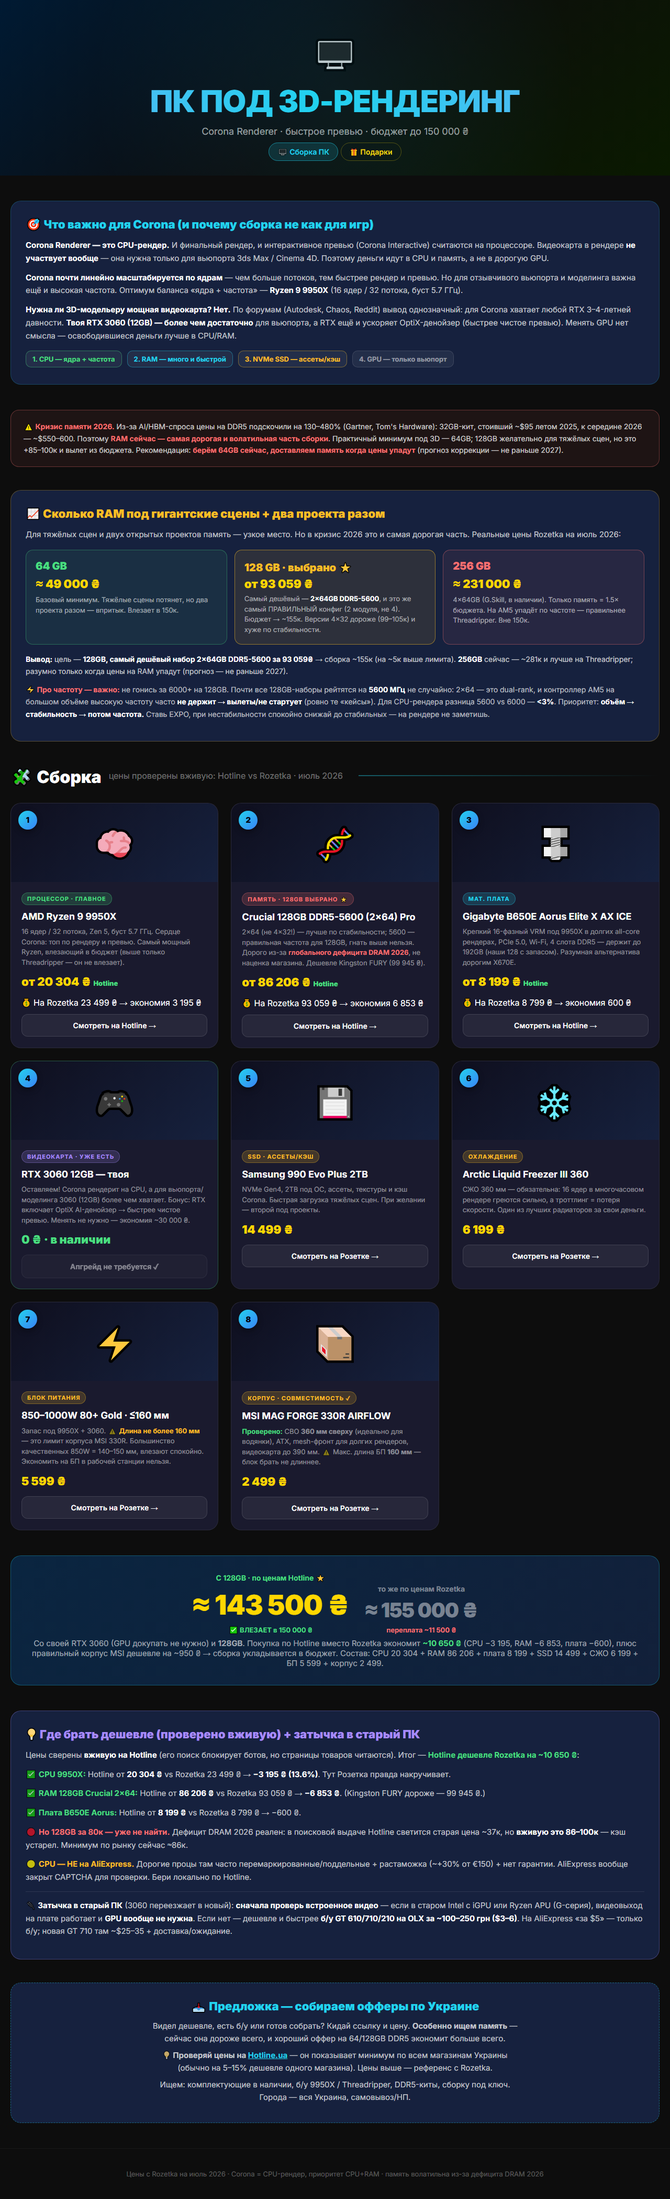
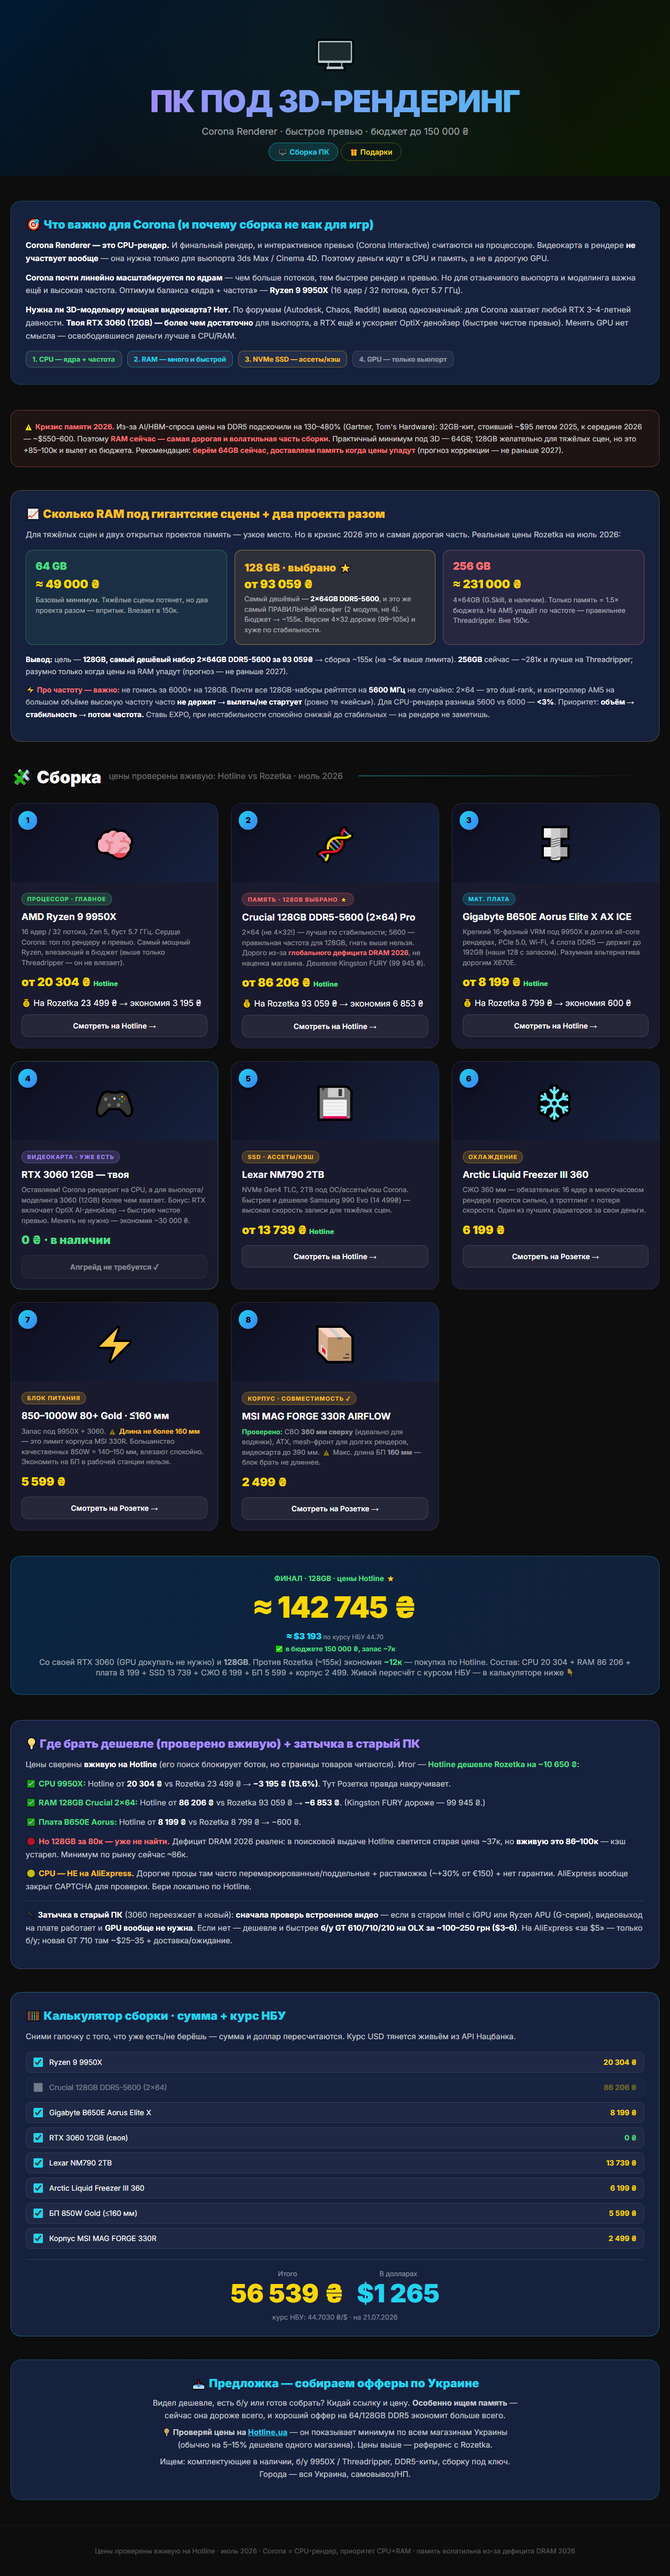
Финальная цена 142 745₴ ($3193) + калькулятор с курсом НБУ
- SSD → Lexar NM790 2TB (Hotline от 13 739₴) — быстрее и дешевле Samsung 990 Evo
- Финал сборки: ≈142 745₴ = ~$3 193 по курсу НБУ 44.703 (в бюджете 150к, запас ~7к)
- Встроен интерактивный калькулятор внизу: чекбоксы «куплено/не беру» → живой пересчёт суммы + USD
- Курс USD тянется живьём из API Нацбанка (bank.gov.ua), фолбэк 44.703
- Проверено: калькулятор считает и переключается; NBU-фетч работает (CORS ok)

diff --git a/index.html b/index.html
@@ -187,15 +187,15 @@
       </div>
     </div>
 
-    <div class="card" onclick="window.open('https://hard.rozetka.com.ua/ua/samsung-mz-v9s2t0bw/p487901779/','_blank')">
+    <div class="card" onclick="window.open('https://hotline.ua/ua/computer-diski-ssd/lexar-nm790-2-tb-lnm790x002t-rnnng/','_blank')">
       <div class="ticket-number">5</div>
       <div class="part-icon">💾</div>
       <div class="card-body">
         <span class="badge b-etc">SSD · ассеты/кэш</span>
-        <div class="card-name">Samsung 990 Evo Plus 2TB</div>
-        <div class="card-desc">NVMe Gen4, 2TB под ОС, ассеты, текстуры и кэш Corona. Быстрая загрузка тяжёлых сцен. При желании — второй под проекты.</div>
-        <div class="card-price">14 499 ₴</div>
-        <a class="card-link" href="https://hard.rozetka.com.ua/ua/samsung-mz-v9s2t0bw/p487901779/" target="_blank" onclick="event.stopPropagation()">Смотреть на Розетке →</a>
+        <div class="card-name">Lexar NM790 2TB</div>
+        <div class="card-desc">NVMe Gen4 TLC, 2TB под ОС/ассеты/кэш Corona. Быстрее и дешевле Samsung 990 Evo (14 499₴) — высокая скорость записи для тяжёлых сцен.</div>
+        <div class="card-price">от 13 739 ₴ <span style="font-size:13px;color:#4ade80">Hotline</span></div>
+        <a class="card-link" href="https://hotline.ua/ua/computer-diski-ssd/lexar-nm790-2-tb-lnm790x002t-rnnng/" target="_blank" onclick="event.stopPropagation()">Смотреть на Hotline →</a>
       </div>
     </div>
 
@@ -241,17 +241,13 @@
   <div class="total">
     <div style="display:flex; gap:30px; justify-content:center; flex-wrap:wrap; align-items:flex-end">
       <div>
-        <div style="font-size:14px; color:#4ade80; font-weight:700; margin-bottom:4px">С 128GB · по ценам Hotline ⭐</div>
-        <div class="sum" style="font-size:clamp(32px,7vw,52px)">≈ 143 500 ₴</div>
-        <div style="font-size:13px;color:#4ade80;font-weight:700;margin-top:4px">✅ ВЛЕЗАЕТ в 150 000 ₴</div>
-      </div>
-      <div>
-        <div style="font-size:14px; color:rgba(255,255,255,0.45); font-weight:700; margin-bottom:4px">то же по ценам Rozetka</div>
-        <div class="sum" style="font-size:clamp(26px,5vw,38px); color:rgba(255,255,255,0.45)">≈ 155 000 ₴</div>
-        <div style="font-size:13px;color:#f87171;font-weight:700;margin-top:4px">переплата ~11 500 ₴</div>
+        <div style="font-size:14px; color:#4ade80; font-weight:700; margin-bottom:4px">ФИНАЛ · 128GB · цены Hotline ⭐</div>
+        <div class="sum" style="font-size:clamp(34px,7vw,56px)">≈ 142 745 ₴</div>
+        <div style="font-size:16px;color:#22d3ee;font-weight:900;margin-top:6px">≈ $3 193 <span style="font-size:12px;color:rgba(255,255,255,0.5);font-weight:400">по курсу НБУ 44.70</span></div>
+        <div style="font-size:13px;color:#4ade80;font-weight:700;margin-top:4px">✅ в бюджете 150 000 ₴, запас ~7к</div>
       </div>
     </div>
-    <div class="cap">Со своей RTX 3060 (GPU докупать не нужно) и <b>128GB</b>. Покупка по Hotline вместо Rozetka экономит <b style="color:#4ade80">~10 650 ₴</b> (CPU −3 195, RAM −6 853, плата −600), плюс правильный корпус MSI дешевле на ~950 ₴ → сборка укладывается в бюджет. Состав: CPU 20 304 + RAM 86 206 + плата 8 199 + SSD 14 499 + СЖО 6 199 + БП 5 599 + корпус 2 499.</div>
+    <div class="cap">Со своей RTX 3060 (GPU докупать не нужно) и <b>128GB</b>. Против Rozetka (≈155к) экономия <b style="color:#4ade80">~12к</b> — покупка по Hotline. Состав: CPU 20 304 + RAM 86 206 + плата 8 199 + SSD 13 739 + СЖО 6 199 + БП 5 599 + корпус 2 499. Живой пересчёт с курсом НБУ — в калькуляторе ниже 👇</div>
   </div>
 
   <!-- ГДЕ ДЕШЕВЛЕ + ЗАТЫЧКА -->
@@ -266,6 +262,18 @@
     <p style="margin-top:14px; padding-top:14px; border-top:1px solid rgba(255,255,255,0.1)">🔌 <b>Затычка в старый ПК</b> (3060 переезжает в новый): <b>сначала проверь встроенное видео</b> — если в старом Intel с iGPU или Ryzen APU (G-серия), видеовыход на плате работает и <b>GPU вообще не нужна</b>. Если нет — дешевле и быстрее <b>б/у GT 610/710/210 на OLX за ~100–250 грн ($3–6)</b>. На AliExpress «за $5» — только б/у; новая GT 710 там ~$25–35 + доставка/ожидание.</p>
   </div>
 
+  <!-- КАЛЬКУЛЯТОР -->
+  <div class="analysis" id="calc" style="border-color:rgba(34,211,238,0.35); margin-bottom:44px">
+    <h2 style="color:#22d3ee">🧮 Калькулятор сборки · сумма + курс НБУ</h2>
+    <p style="margin-bottom:16px">Сними галочку с того, что уже есть/не берёшь — сумма и доллар пересчитаются. Курс USD тянется живьём из API Нацбанка.</p>
+    <div id="calc-rows" style="display:flex; flex-direction:column; gap:8px"></div>
+    <div style="margin-top:20px; padding-top:18px; border-top:1px solid rgba(255,255,255,0.12); display:flex; flex-wrap:wrap; gap:24px; align-items:baseline; justify-content:center">
+      <div style="text-align:center"><div style="font-size:13px;color:rgba(255,255,255,0.5)">Итого</div><div id="calc-uah" style="font-size:clamp(30px,6vw,48px);font-weight:900;color:var(--gold)">—</div></div>
+      <div style="text-align:center"><div style="font-size:13px;color:rgba(255,255,255,0.5)">В долларах</div><div id="calc-usd" style="font-size:clamp(30px,6vw,48px);font-weight:900;color:#22d3ee">—</div></div>
+    </div>
+    <div id="calc-rate" style="text-align:center; margin-top:8px; font-size:13px; color:rgba(255,255,255,0.45)">курс загружается…</div>
+  </div>
+
   <!-- ПРЕДЛОЖКА -->
   <div class="offer">
     <h2>📥 Предложка — собираем офферы по Украине</h2>
@@ -277,8 +285,51 @@
 </div>
 
 <footer>
-  Цены с Rozetka на июль 2026 · Corona = CPU-рендер, приоритет CPU+RAM · память волатильна из-за дефицита DRAM 2026
+  Цены проверены вживую на Hotline · июль 2026 · Corona = CPU-рендер, приоритет CPU+RAM · память волатильна из-за дефицита DRAM 2026
 </footer>
+
+<script>
+(function(){
+  var FALLBACK_RATE = 44.703; // НБУ на 21.07.2026
+  var parts = [
+    { n:'Ryzen 9 9950X', p:20304 },
+    { n:'Crucial 128GB DDR5-5600 (2×64)', p:86206 },
+    { n:'Gigabyte B650E Aorus Elite X', p:8199 },
+    { n:'RTX 3060 12GB (своя)', p:0 },
+    { n:'Lexar NM790 2TB', p:13739 },
+    { n:'Arctic Liquid Freezer III 360', p:6199 },
+    { n:'БП 850W Gold (≤160 мм)', p:5599 },
+    { n:'Корпус MSI MAG FORGE 330R', p:2499 }
+  ];
+  var rate = FALLBACK_RATE, checked = parts.map(function(){ return true; });
+  var rowsEl = document.getElementById('calc-rows');
+  var uahEl = document.getElementById('calc-uah'), usdEl = document.getElementById('calc-usd'), rateEl = document.getElementById('calc-rate');
+  function fmt(n){ return Math.round(n).toString().replace(/\B(?=(\d{3})+(?!\d))/g,' '); }
+  function recalc(){
+    var sum = 0;
+    for (var i=0;i<parts.length;i++){ if (checked[i]) sum += parts[i].p; }
+    uahEl.textContent = fmt(sum) + ' ₴';
+    usdEl.textContent = '$' + fmt(sum / rate);
+  }
+  parts.forEach(function(part, i){
+    var row = document.createElement('label');
+    row.style.cssText = 'display:flex;align-items:center;gap:12px;padding:10px 14px;background:rgba(255,255,255,0.04);border:1px solid rgba(255,255,255,0.08);border-radius:10px;cursor:pointer;font-size:14px';
+    var cb = document.createElement('input');
+    cb.type = 'checkbox'; cb.checked = true; cb.style.cssText = 'width:18px;height:18px;accent-color:#22d3ee;cursor:pointer';
+    cb.addEventListener('change', function(){ checked[i] = cb.checked; row.style.opacity = cb.checked ? '1' : '0.4'; recalc(); });
+    var name = document.createElement('span'); name.textContent = part.n; name.style.flex = '1';
+    var price = document.createElement('span'); price.textContent = (part.p ? fmt(part.p)+' ₴' : '0 ₴'); price.style.cssText = 'font-weight:700;color:'+(part.p?'#FFD700':'#4ade80');
+    row.appendChild(cb); row.appendChild(name); row.appendChild(price);
+    rowsEl.appendChild(row);
+  });
+  recalc();
+  rateEl.textContent = 'курс НБУ: ' + FALLBACK_RATE.toFixed(2) + ' ₴/$ (резервный, обновляю…)';
+  fetch('https://bank.gov.ua/NBUStatService/v1/statdirectory/exchange?valcode=USD&json')
+    .then(function(r){ return r.json(); })
+    .then(function(d){ if (d && d[0] && d[0].rate){ rate = d[0].rate; rateEl.textContent = 'курс НБУ: ' + rate.toFixed(4) + ' ₴/$ · на ' + (d[0].exchangedate||''); recalc(); } })
+    .catch(function(){ rateEl.textContent = 'курс НБУ: ' + FALLBACK_RATE.toFixed(2) + ' ₴/$ (резервный — API недоступен)'; });
+})();
+</script>
 
 </body>
 </html>
